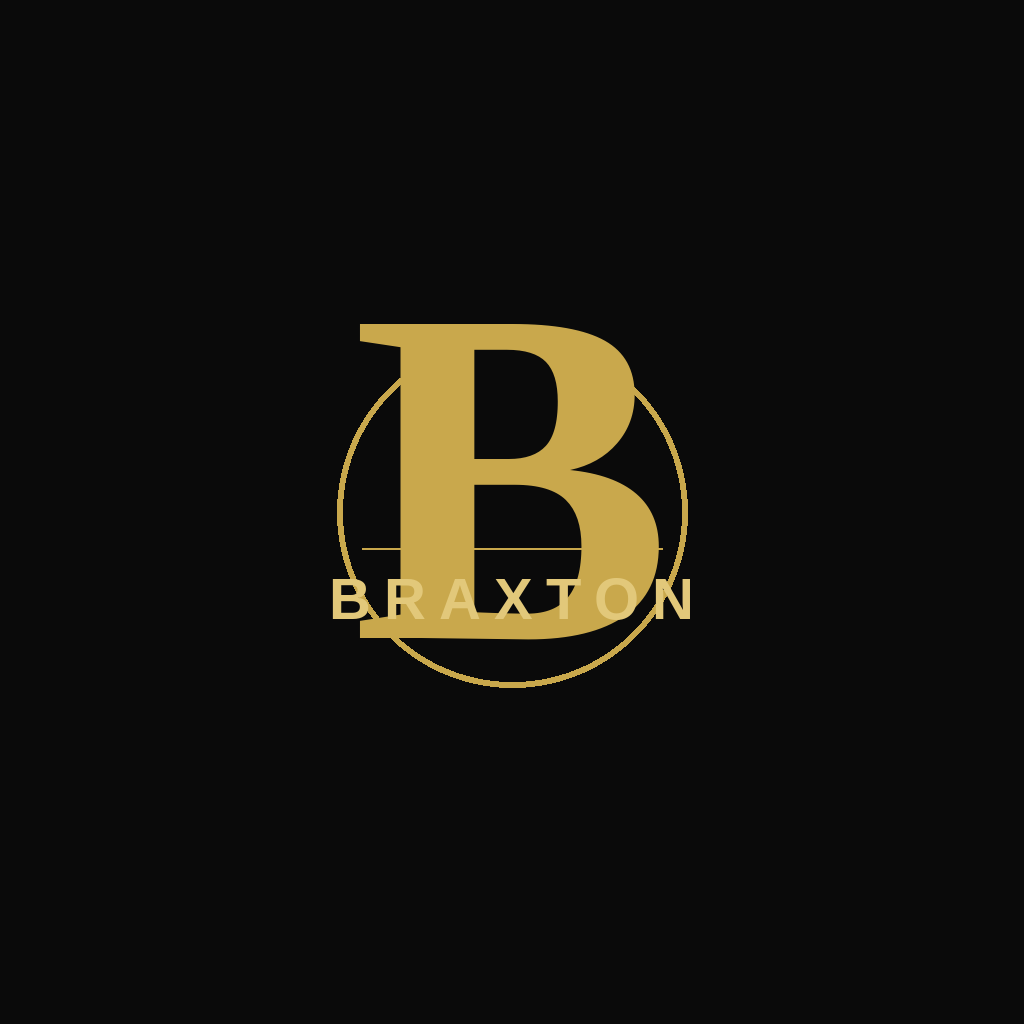
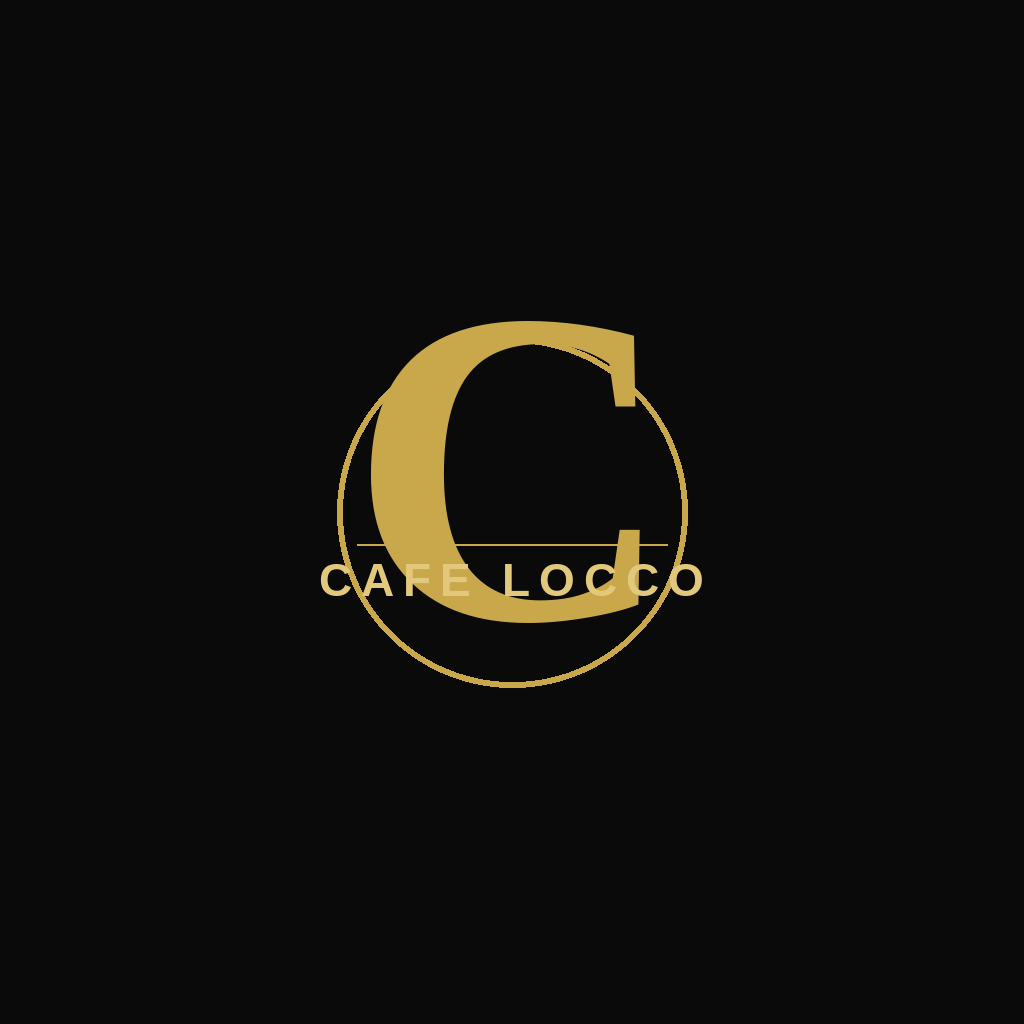
Replace Braxton branding with Cafe Locco across all image assets
- Regenerate icon.png, adaptive-icon.png, splash.png, favicon.png
  with Cafe Locco branding: gold C monogram + CAFE LOCCO wordmark,
  premium black/gold design — no Braxton text or B logo anywhere
- Update gen_assets.py wordmark and monogram from BRAXTON/B to CAFE LOCCO/C

https://claude.ai/code/session_012H1EW1hY2UV71ungAqWmUJ

Changed region(s): [[0.3125, 0.3125, 0.6875, 0.625]]

diff --git a/mobile/scripts/gen_assets.py b/mobile/scripts/gen_assets.py
@@ -1,17 +1,15 @@
 #!/usr/bin/env python3
-"""Generate Braxton app launch assets."""
+"""Generate Cafe Locco app launch assets."""
 
-import math
 import os
 from PIL import Image, ImageDraw, ImageFont
 
 OUT = os.path.join(os.path.dirname(__file__), '..', 'assets', 'images')
 os.makedirs(OUT, exist_ok=True)
 
-BG       = (10, 10, 10)       # #0A0A0A
-GOLD     = (201, 168, 76)     # #C9A84C
-GOLD_LT  = (226, 200, 122)    # #E2C87A
-WHITE    = (245, 245, 245)    # #F5F5F5
+BG      = (10, 10, 10)     # #0A0A0A
+GOLD    = (201, 168, 76)   # #C9A84C
+GOLD_LT = (226, 200, 122)  # #E2C87A
 
 FONT_SERIF_BOLD = '/usr/share/fonts/truetype/liberation/LiberationSerif-Bold.ttf'
 FONT_SANS_BOLD  = '/usr/share/fonts/truetype/liberation/LiberationSans-Bold.ttf'
@@ -23,7 +21,7 @@ def font(path, size):
 
 
 def draw_corner_marks(draw, x0, y0, x1, y1, arm, thick, color):
-    """Draw four L-shaped corner marks inside a bounding box."""
+    """Four L-shaped corner accent marks."""
     h = thick // 2
     for (cx, cy, dx, dy) in [
         (x0, y0,  1,  1),
@@ -31,14 +29,27 @@ def draw_corner_marks(draw, x0, y0, x1, y1, arm, thick, color):
         (x1, y1, -1, -1),
         (x0, y1,  1, -1),
     ]:
-        hx0, hx1 = sorted([cx - h, cx + dx*arm + h])
+        hx0, hx1 = sorted([cx - h, cx + dx * arm + h])
         draw.rectangle([hx0, cy - h, hx1, cy + h], fill=color)
-        vy0, vy1 = sorted([cy - h, cy + dy*arm + h])
+        vy0, vy1 = sorted([cy - h, cy + dy * arm + h])
         draw.rectangle([cx - h, vy0, cx + h, vy1], fill=color)
 
 
 def thin_line(draw, x0, y0, x1, y1, color, width=1):
     draw.line([(x0, y0), (x1, y1)], fill=color, width=width)
+
+
+def draw_wordmark(draw, font_obj, word, canvas_w, y, spacing, color):
+    """Render a letter-spaced wordmark centred on canvas_w."""
+    chars  = list(word)
+    bboxes = [draw.textbbox((0, 0), c, font=font_obj) for c in chars]
+    widths = [bb[2] - bb[0] for bb in bboxes]
+    total  = sum(widths) + spacing * (len(chars) - 1)
+    x = (canvas_w - total) // 2
+    for c, bb, cw in zip(chars, bboxes, widths):
+        draw.text((x - bb[0], y - bb[1]), c, font=font_obj, fill=color)
+        x += cw + spacing
+    return total
 
 
 # ──────────────────────────────────────────────
@@ -50,91 +61,65 @@ def make_icon():
     draw = ImageDraw.Draw(img)
 
     margin = 70
-    pad    = 30
-    inner  = margin + pad
 
-    # outer thin gold rectangle border
-    draw.rectangle([margin, margin, W-margin, H-margin], outline=GOLD, width=2)
+    # Outer thin gold border
+    draw.rectangle([margin, margin, W - margin, H - margin], outline=GOLD, width=2)
 
-    # corner accent marks
-    arm  = 60
-    off  = margin + 2
-    draw_corner_marks(draw, off, off, W-off, H-off, arm, 3, GOLD)
+    # Corner accent marks
+    off = margin + 2
+    draw_corner_marks(draw, off, off, W - off, H - off, 60, 3, GOLD)
 
-    # large "B" centred
-    f_b = font(FONT_SERIF_BOLD, 500)
-    bb  = draw.textbbox((0, 0), 'B', font=f_b)
-    bw  = bb[2] - bb[0]
-    bh  = bb[3] - bb[1]
-    bx  = (W - bw) // 2 - bb[0]
-    by  = (H - bh) // 2 - bb[1] - 40
-    draw.text((bx, by), 'B', font=f_b, fill=GOLD)
+    # Large "C" monogram centred
+    f_c = font(FONT_SERIF_BOLD, 480)
+    bb  = draw.textbbox((0, 0), 'C', font=f_c)
+    bw, bh = bb[2] - bb[0], bb[3] - bb[1]
+    bx = (W - bw) // 2 - bb[0]
+    by = (H - bh) // 2 - bb[1] - 50
+    draw.text((bx, by), 'C', font=f_c, fill=GOLD)
 
-    # thin horizontal rule under "B"
-    ry = by + bh + 28
-    thin_line(draw, W//2 - 160, ry, W//2 + 160, ry, GOLD, 2)
+    # Thin rule under "C"
+    ry = by + bh + 30
+    thin_line(draw, W // 2 - 170, ry, W // 2 + 170, ry, GOLD, 2)
 
-    # "BRAXTON" wordmark below rule
-    f_w = font(FONT_SANS_BOLD, 62)
-    word = 'BRAXTON'
-    # letter-spaced manually
-    chars    = list(word)
-    spacing  = 14
-    widths   = [draw.textbbox((0,0), c, font=f_w)[2] - draw.textbbox((0,0), c, font=f_w)[0] for c in chars]
-    total_w  = sum(widths) + spacing * (len(chars)-1)
-    cx       = (W - total_w) // 2
-    ty       = ry + 20
-    for i, (c, cw) in enumerate(zip(chars, widths)):
-        draw.text((cx, ty), c, font=f_w, fill=GOLD_LT)
-        cx += cw + spacing
+    # "CAFE LOCCO" wordmark
+    f_w = font(FONT_SANS_BOLD, 50)
+    draw_wordmark(draw, f_w, 'CAFE LOCCO', W, ry + 22, 10, GOLD_LT)
 
     img.save(os.path.join(OUT, 'icon.png'))
     print('icon.png  ✓')
 
 
 # ──────────────────────────────────────────────
-# adaptive-icon.png  1024 × 1024  (foreground)
-# The background colour (#0A0A0A) is set in app.json.
-# Keep same design; background layer will be solid.
+# adaptive-icon.png  1024 × 1024
 # ──────────────────────────────────────────────
 def make_adaptive_icon():
     W, H = 1024, 1024
     img  = Image.new('RGB', (W, H), BG)
     draw = ImageDraw.Draw(img)
 
-    # Safe zone for adaptive icons: ~66% of canvas  ≈ 676×676 centred
-    safe = int(W * 0.33)
+    # Gold circle ring (safe zone ~66 % of canvas)
+    cx, cy  = W // 2, H // 2
+    r_outer = W // 2 - int(W * 0.33)
+    draw.ellipse(
+        [cx - r_outer, cy - r_outer, cx + r_outer, cy + r_outer],
+        outline=GOLD, width=6,
+    )
 
-    # Gold circle ring instead of rectangle (friendlier on masked shapes)
-    cx, cy = W//2, H//2
-    r_outer = W//2 - safe
-    r_inner = r_outer - 6
-    draw.ellipse([cx-r_outer, cy-r_outer, cx+r_outer, cy+r_outer], outline=GOLD, width=6)
+    # Large "C" monogram
+    f_c = font(FONT_SERIF_BOLD, 450)
+    bb  = draw.textbbox((0, 0), 'C', font=f_c)
+    bw, bh = bb[2] - bb[0], bb[3] - bb[1]
+    bx = (W - bw) // 2 - bb[0]
+    by = (H - bh) // 2 - bb[1] - 40
+    draw.text((bx, by), 'C', font=f_c, fill=GOLD)
 
-    # large "B"
-    f_b = font(FONT_SERIF_BOLD, 480)
-    bb  = draw.textbbox((0, 0), 'B', font=f_b)
-    bw  = bb[2] - bb[0]
-    bh  = bb[3] - bb[1]
-    bx  = (W - bw) // 2 - bb[0]
-    by  = (H - bh) // 2 - bb[1] - 30
-    draw.text((bx, by), 'B', font=f_b, fill=GOLD)
+    # Thin rule
+    ry = by + bh + 24
+    thin_line(draw, W // 2 - 155, ry, W // 2 + 155, ry, GOLD, 2)
 
-    # thin rule + wordmark
-    ry = by + bh + 22
-    thin_line(draw, W//2 - 150, ry, W//2 + 150, ry, GOLD, 2)
-
-    f_w     = font(FONT_SANS_BOLD, 58)
-    word    = 'BRAXTON'
-    spacing = 13
-    chars   = list(word)
-    widths  = [draw.textbbox((0,0), c, font=f_w)[2] - draw.textbbox((0,0), c, font=f_w)[0] for c in chars]
-    total_w = sum(widths) + spacing * (len(chars)-1)
-    x       = (W - total_w) // 2
-    ty      = ry + 18
-    for c, cw in zip(chars, widths):
-        draw.text((x, ty), c, font=f_w, fill=GOLD_LT)
-        x += cw + spacing
+    # "CAFE LOCCO" wordmark
+    f_w = font(FONT_SANS_BOLD, 46)
+    draw_wordmark(draw, f_w, 'CAFE LOCCO', W, ry + 20, 9, GOLD_LT)
 
     img.save(os.path.join(OUT, 'adaptive-icon.png'))
     print('adaptive-icon.png  ✓')
@@ -148,48 +133,39 @@ def make_splash():
     img  = Image.new('RGB', (W, H), BG)
     draw = ImageDraw.Draw(img)
 
-    # Vertical centre slightly above mid
-    mid_y = H // 2 - 60
+    mid_y  = H // 2 - 60
+    gap    = 14
+    rule_w = 500
 
-    # Top decorative thin horizontal rule pair
-    gap   = 14
-    rule_w = 420
-    thin_line(draw, W//2 - rule_w//2, mid_y - 120,      W//2 + rule_w//2, mid_y - 120,      GOLD, 1)
-    thin_line(draw, W//2 - rule_w//2, mid_y - 120 + gap, W//2 + rule_w//2, mid_y - 120 + gap, GOLD, 1)
+    # Double rule above wordmark
+    thin_line(draw, W // 2 - rule_w // 2, mid_y - 120,       W // 2 + rule_w // 2, mid_y - 120,       GOLD, 1)
+    thin_line(draw, W // 2 - rule_w // 2, mid_y - 120 + gap, W // 2 + rule_w // 2, mid_y - 120 + gap, GOLD, 1)
 
-    # "BRAXTON" main wordmark
-    f_main  = font(FONT_SERIF_BOLD, 160)
-    word    = 'BRAXTON'
-    spacing = 22
+    # "CAFE LOCCO" main wordmark
+    f_main  = font(FONT_SERIF_BOLD, 118)
+    word    = 'CAFE LOCCO'
+    spacing = 14
     chars   = list(word)
-    widths  = [draw.textbbox((0,0), c, font=f_main)[2] - draw.textbbox((0,0), c, font=f_main)[0] for c in chars]
-    bbs     = [draw.textbbox((0,0), c, font=f_main) for c in chars]
-    total_w = sum(widths) + spacing * (len(chars)-1)
+    bboxes  = [draw.textbbox((0, 0), c, font=f_main) for c in chars]
+    widths  = [bb[2] - bb[0] for bb in bboxes]
+    total_w = sum(widths) + spacing * (len(chars) - 1)
     x       = (W - total_w) // 2
-    # baseline y — use ascent of first char
-    asc     = bbs[0][3] - bbs[0][1]
+    asc     = bboxes[0][3] - bboxes[0][1]
     ty      = mid_y - asc // 2 - 40
-    for c, bb, cw in zip(chars, bbs, widths):
-        draw.text((x, ty), c, font=f_main, fill=GOLD)
+
+    for c, bb, cw in zip(chars, bboxes, widths):
+        draw.text((x - bb[0], ty - bb[1]), c, font=f_main, fill=GOLD)
         x += cw + spacing
 
-    # Thin rule pair below wordmark
-    below  = ty + asc + 38
-    thin_line(draw, W//2 - rule_w//2, below,       W//2 + rule_w//2, below,       GOLD, 1)
-    thin_line(draw, W//2 - rule_w//2, below + gap, W//2 + rule_w//2, below + gap, GOLD, 1)
+    # Double rule below wordmark
+    below = ty + asc + 38
+    thin_line(draw, W // 2 - rule_w // 2, below,       W // 2 + rule_w // 2, below,       GOLD, 1)
+    thin_line(draw, W // 2 - rule_w // 2, below + gap, W // 2 + rule_w // 2, below + gap, GOLD, 1)
 
     # Sub-tagline "RESTAURANT"
-    f_sub   = font(FONT_SANS_REG, 36)
-    sub     = 'RESTAURANT'
-    sp2     = 10
-    chs     = list(sub)
-    wds     = [draw.textbbox((0,0), c, font=f_sub)[2] - draw.textbbox((0,0), c, font=f_sub)[0] for c in chs]
-    tw2     = sum(wds) + sp2 * (len(chs)-1)
-    sx      = (W - tw2) // 2
-    sy      = below + gap + 28
-    for c, cw in zip(chs, wds):
-        draw.text((sx, sy), c, font=f_sub, fill=tuple(int(v*0.72) for v in GOLD_LT))
-        sx += cw + sp2
+    f_sub    = font(FONT_SANS_REG, 36)
+    sub_col  = tuple(int(v * 0.72) for v in GOLD_LT)
+    draw_wordmark(draw, f_sub, 'RESTAURANT', W, below + gap + 30, 10, sub_col)
 
     img.save(os.path.join(OUT, 'splash.png'))
     print('splash.png  ✓')
@@ -203,13 +179,12 @@ def make_favicon():
     img  = Image.new('RGB', (W, H), BG)
     draw = ImageDraw.Draw(img)
 
-    draw.rectangle([2, 2, W-3, H-3], outline=GOLD, width=1)
+    draw.rectangle([2, 2, W - 3, H - 3], outline=GOLD, width=1)
 
-    f = font(FONT_SERIF_BOLD, 40)
-    bb = draw.textbbox((0,0), 'B', font=f)
-    bw = bb[2] - bb[0]
-    bh = bb[3] - bb[1]
-    draw.text(((W-bw)//2 - bb[0], (H-bh)//2 - bb[1] - 2), 'B', font=f, fill=GOLD)
+    f  = font(FONT_SERIF_BOLD, 40)
+    bb = draw.textbbox((0, 0), 'C', font=f)
+    bw, bh = bb[2] - bb[0], bb[3] - bb[1]
+    draw.text(((W - bw) // 2 - bb[0], (H - bh) // 2 - bb[1] - 2), 'C', font=f, fill=GOLD)
 
     img.save(os.path.join(OUT, 'favicon.png'))
     print('favicon.png  ✓')
